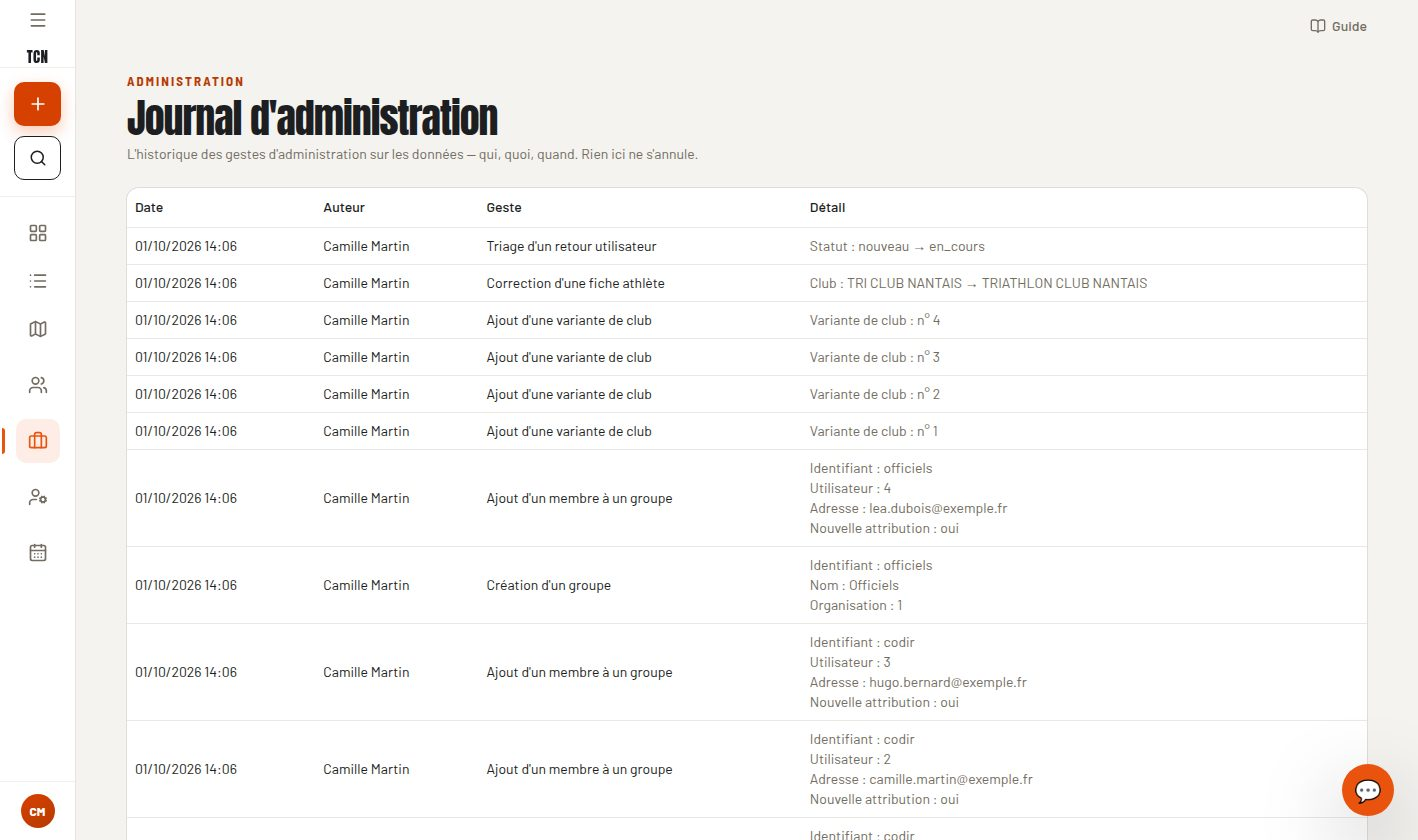
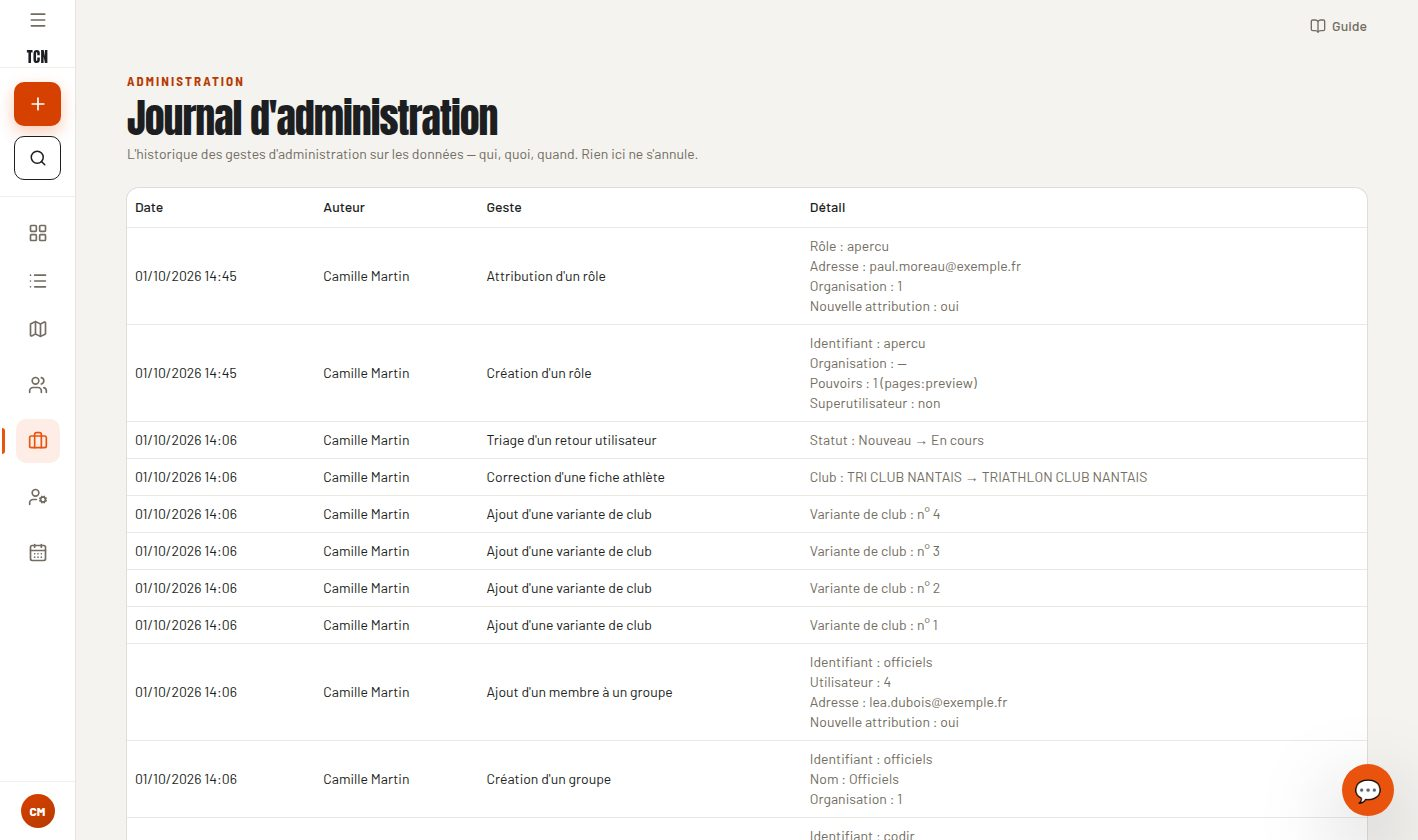
fix(frontend): translate feedback status values in the admin journal
The journal showed « Statut : nouveau → en_cours » where the feedback queue says « Nouveau → En cours ». Both now read FEEDBACK_STATUS_LABELS from lib/labels.ts, and value labels also apply to before/after diffs. Journal capture retaken.

diff --git a/frontend/lib/admin-action-log.ts b/frontend/lib/admin-action-log.ts
@@ -6,6 +6,7 @@
  * (`AdminActionLog.action`) ; `formatPayload` traduit les **clés** du JSON
  * libre qu'un geste a consigné, quel que soit le geste.
  */
+import { FEEDBACK_STATUS_LABELS } from "@/lib/labels";
 
 const ACTION_LABELS: Record<string, string> = {
   "course.delete": "Suppression d'une épreuve",
@@ -156,7 +157,12 @@ export type LigneDetail = { label: string; value: string; href?: string };
 /** Valeurs codées traduites, par clé : le backend écrit `scope: "all"` (#935). */
 const PAYLOAD_VALUE_LABELS: Record<string, Record<string, string>> = {
   scope: { all: "tous les comptes" },
+  status: FEEDBACK_STATUS_LABELS,
 };
+
+function valueFor(key: string, v: unknown): string {
+  return PAYLOAD_VALUE_LABELS[key]?.[String(v)] ?? formatValue(v);
+}
 
 function labelFor(key: string): string {
   return PAYLOAD_KEY_LABELS[key] ?? key;
@@ -198,7 +204,7 @@ export function formatPayload(payload: Record<string, unknown> | null): LigneDet
         if (JSON.stringify(before[champ]) !== JSON.stringify(after[champ])) {
           lignes.push({
             label: labelFor(champ),
-            value: `${formatValue(before[champ])} → ${formatValue(after[champ])}`,
+            value: `${valueFor(champ, before[champ])} → ${valueFor(champ, after[champ])}`,
           });
         }
       }
@@ -215,7 +221,7 @@ export function formatPayload(payload: Record<string, unknown> | null): LigneDet
     lignes.push(
       base && typeof v === "number"
         ? { label: labelFor(k), value: String(v), href: `${base}/${v}` }
-        : { label: labelFor(k), value: PAYLOAD_VALUE_LABELS[k]?.[String(v)] ?? formatValue(v) },
+        : { label: labelFor(k), value: valueFor(k, v) },
     );
   }
 

diff --git a/frontend/components/admin/FeedbackTable.tsx b/frontend/components/admin/FeedbackTable.tsx
@@ -14,6 +14,7 @@ import { Button } from "@/components/ui/button";
 import { Card } from "@/components/ui/card";
 import { Skeleton } from "@/components/ui/skeleton";
 import { EmptyState } from "@/components/ui/empty-state";
+import { FEEDBACK_STATUS_LABELS } from "@/lib/labels";
 import { FeedbackDetailDialog } from "@/components/admin/FeedbackDetailDialog";
 import { useFeedbackCounts, useFeedbackList, useUpdateFeedbackStatus } from "@/lib/queries/admin";
 import { useSession } from "@/lib/queries/auth";
@@ -29,12 +30,7 @@ type Statut = Feedback["status"];
 /** Le cinquième filtre n'est pas un statut : il **retire** le paramètre (#500). */
 type Filtre = Statut | "tous";
 
-const LIBELLE_STATUT: Record<Statut, string> = {
-  nouveau: "Nouveau",
-  en_cours: "En cours",
-  traite: "Traité",
-  ignore: "Ignoré",
-};
+const LIBELLE_STATUT = FEEDBACK_STATUS_LABELS;
 
 const STATUTS = Object.keys(LIBELLE_STATUT) as Statut[];
 

diff --git a/frontend/lib/labels.ts b/frontend/lib/labels.ts
@@ -1,5 +1,6 @@
 import type { RankType } from "@/lib/rank";
 import type { PodiumScope } from "@/lib/podium-scope";
+import type { Feedback } from "@/lib/types";
 
 /**
  * Libellés utilisateur du vocabulaire de rang. Une seule source pour les trois
@@ -77,3 +78,11 @@ export function participationStatusLabel(
 ): string {
   return STATUS_LABEL[status][opts?.form ?? "one"];
 }
+
+/** Statut d'un retour utilisateur : la file des retours et le journal le disent pareil. */
+export const FEEDBACK_STATUS_LABELS: Record<Feedback["status"], string> = {
+  nouveau: "Nouveau",
+  en_cours: "En cours",
+  traite: "Traité",
+  ignore: "Ignoré",
+};

diff --git a/frontend/lib/admin-action-log.test.ts b/frontend/lib/admin-action-log.test.ts
@@ -25,6 +25,12 @@ describe("formatPayload", () => {
     expect(lignes).toContainEqual({ label: "cle_inconnue", value: "x" });
   });
 
+  it("translates feedback status values in a before/after diff", () => {
+    expect(
+      formatPayload({ before: { status: "nouveau" }, after: { status: "en_cours" } }),
+    ).toEqual([{ label: "Statut", value: "Nouveau → En cours" }]);
+  });
+
   it("labels `name` without assuming a race: groups and roles carry it too", () => {
     expect(formatPayload({ slug: "officiels", name: "Officiels" })).toContainEqual({
       label: "Nom",
